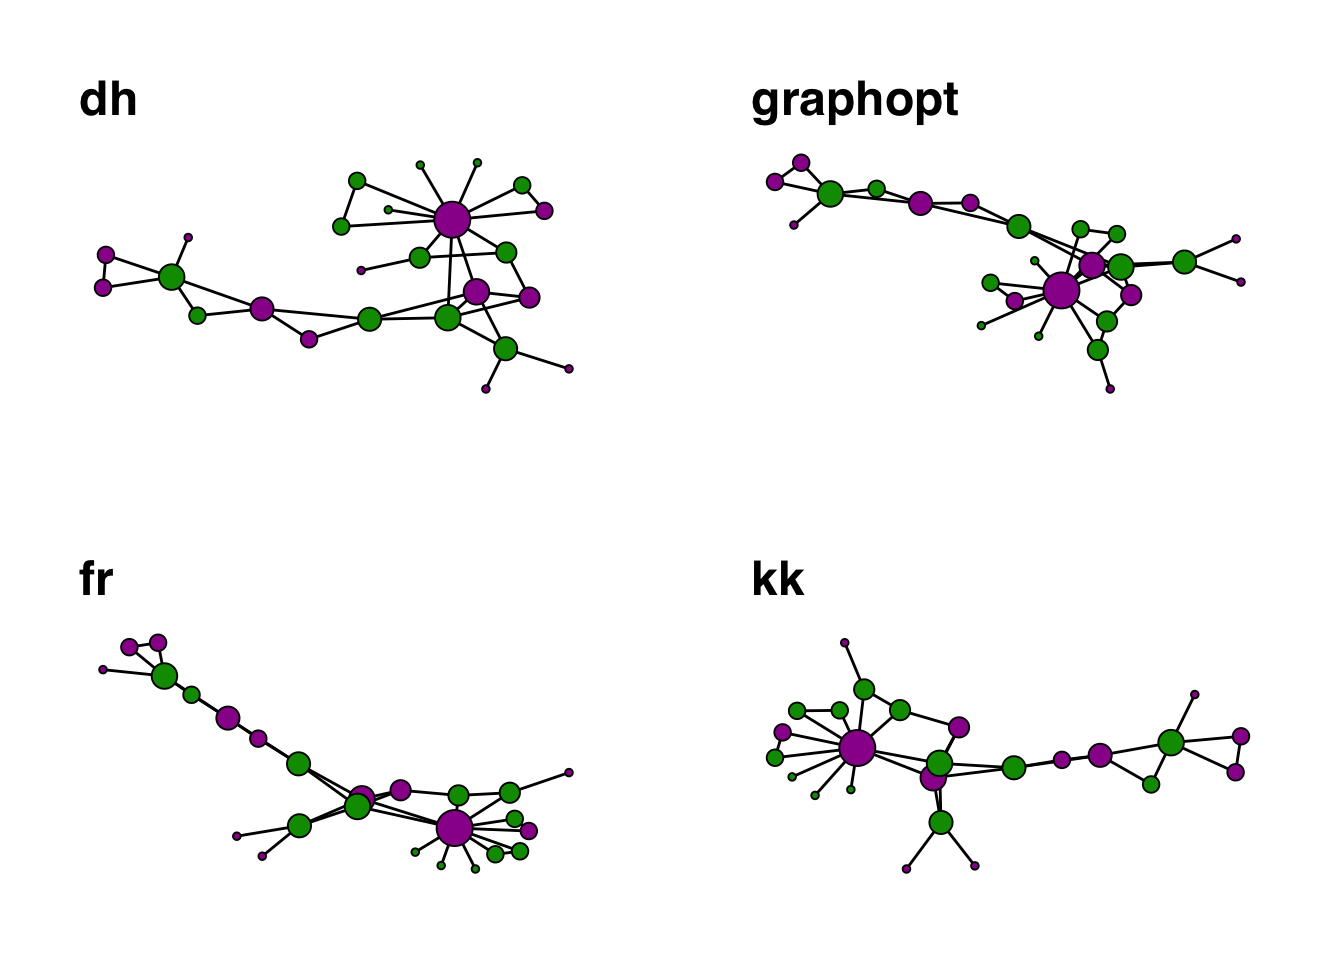
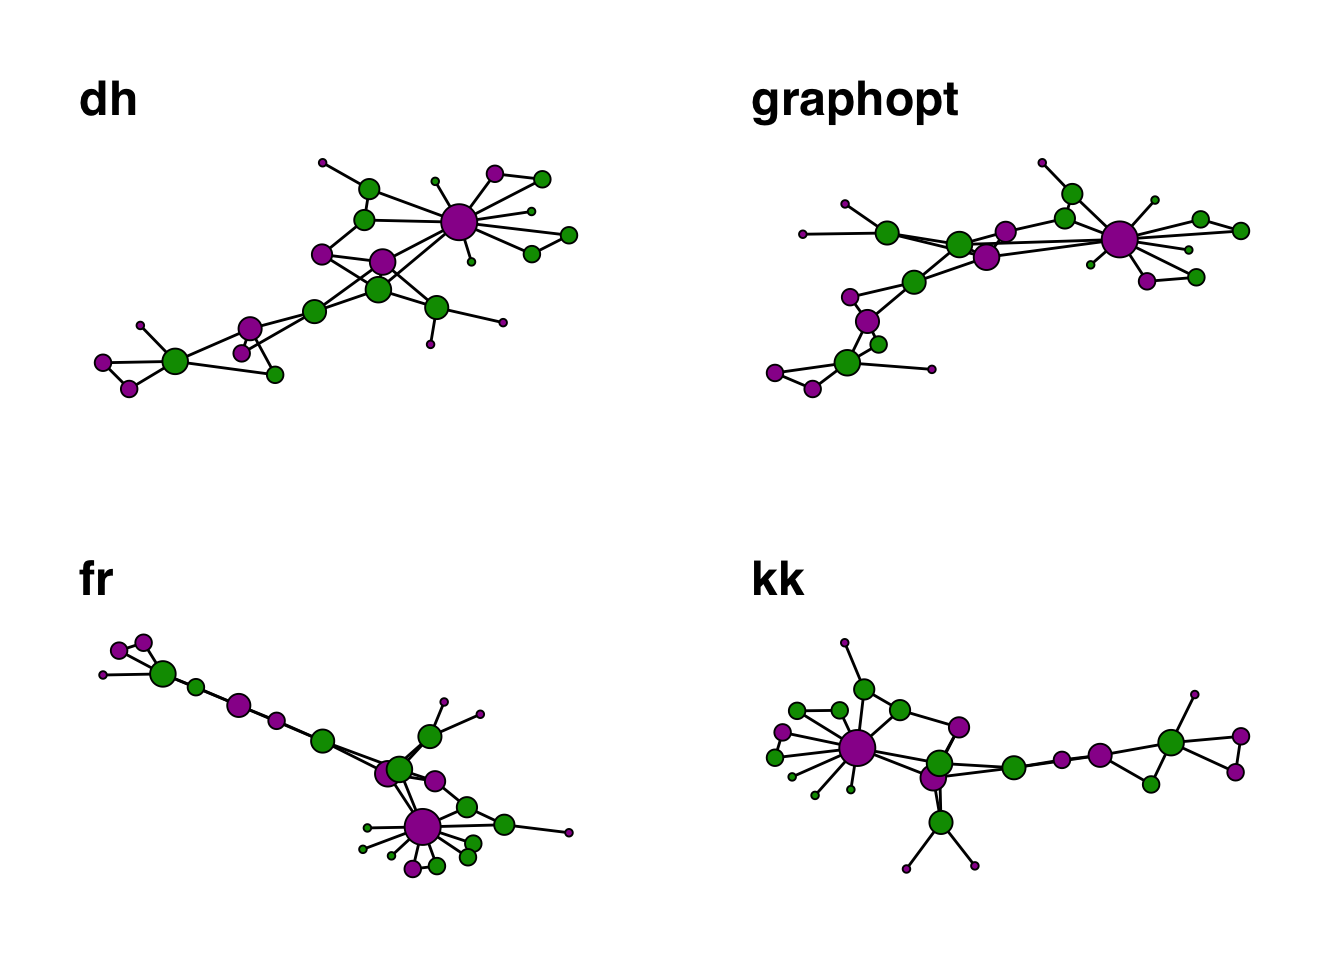
minor upd ggraph

diff --git a/docs/ggraph.html b/docs/ggraph.html
@@ -407,9 +407,9 @@ pre > code.sourceCode > span > a:first-child::before { text-decoration: underlin
 <div class="sourceCode cell-code" id="cb3"><pre class="sourceCode r code-with-copy"><code class="sourceCode r"><span id="cb3-1"><a href="#cb3-1" aria-hidden="true" tabindex="-1"></a>tudors_g <span class="ot">&lt;-</span> <span class="fu">graph_from_data_frame</span>(tudors)</span>
 <span id="cb3-2"><a href="#cb3-2" aria-hidden="true" tabindex="-1"></a>tudors_g</span></code><button title="Скопировать текст" class="code-copy-button"><i class="bi"></i></button></pre></div>
 <div class="cell-output cell-output-stdout">
-<pre><code>IGRAPH 7cf3658 DN-- 25 35 -- 
+<pre><code>IGRAPH 0268728 DN-- 25 35 -- 
 + attr: name (v/c), relationship (e/c)
-+ edges from 7cf3658 (vertex names):
++ edges from 0268728 (vertex names):
  [1] Henry VII          -&gt;Elizabeth of York     
  [2] Arthur Tudor       -&gt;Catharine of Aragon   
  [3] Henry VIII         -&gt;Catharine of Aragon   
@@ -448,9 +448,9 @@ pre > code.sourceCode > span > a:first-child::before { text-decoration: underlin
 <span id="cb7-2"><a href="#cb7-2" aria-hidden="true" tabindex="-1"></a><span class="fu">V</span>(tudors_g)<span class="sc">$</span>degree <span class="ot">&lt;-</span> d</span>
 <span id="cb7-3"><a href="#cb7-3" aria-hidden="true" tabindex="-1"></a>tudors_g</span></code><button title="Скопировать текст" class="code-copy-button"><i class="bi"></i></button></pre></div>
 <div class="cell-output cell-output-stdout">
-<pre><code>IGRAPH 7cf3658 DN-- 25 35 -- 
+<pre><code>IGRAPH 0268728 DN-- 25 35 -- 
 + attr: name (v/c), degree (v/n), relationship (e/c)
-+ edges from 7cf3658 (vertex names):
++ edges from 0268728 (vertex names):
  [1] Henry VII          -&gt;Elizabeth of York     
  [2] Arthur Tudor       -&gt;Catharine of Aragon   
  [3] Henry VIII         -&gt;Catharine of Aragon   
@@ -977,8 +977,8 @@ Ignoring unknown parameters: `label.size`</code></pre>
 </div>
 </div>
 </div>
-<p>Любой из этих результатов следует визализировать в виде графа, используя пакеты <code>{igraph}</code>, <code>{ggraph}</code> или (опционально) <code>{visNetwork}</code>.</p>
-<p>Используйте рассмотренные сегодня способы дизайна узлов и ребер, выберите укладку сети, при необходимости используйте текстовые подписи, изображения или легенды. Строгих критериев нет, но целое должно быть информативно и — в меру ваших представлений о прекрасном — приятно на вид.</p>
+<p>Любой из этих (или подобных) результатов следует визализировать в виде графа, используя пакеты <code>{igraph}</code>, <code>{ggraph}</code> или (опционально) <code>{visNetwork}</code>.</p>
+<p>Используйте рассмотренные сегодня способы дизайна узлов и ребер, выберите укладку сети, при необходимости используйте текстовые подписи, изображения или легенды. Строгих критериев нет, но целое должно быть оригинально, информативно и — в меру ваших представлений о прекрасном — приятно на вид.</p>
 <p>Результат вместе с кодом опубликовать и оставить ссылку <a href="https://docs.google.com/document/d/1qygYTUH0iU-qh-kThjbhB9X2W5RJM5IAivhZPbwDx_8/edit?usp=sharing">здесь</a>.</p>
 <p><strong>Дедлайн</strong> 23-59, 8 марта. <strong>Оценка</strong> 0/1.</p>
 
